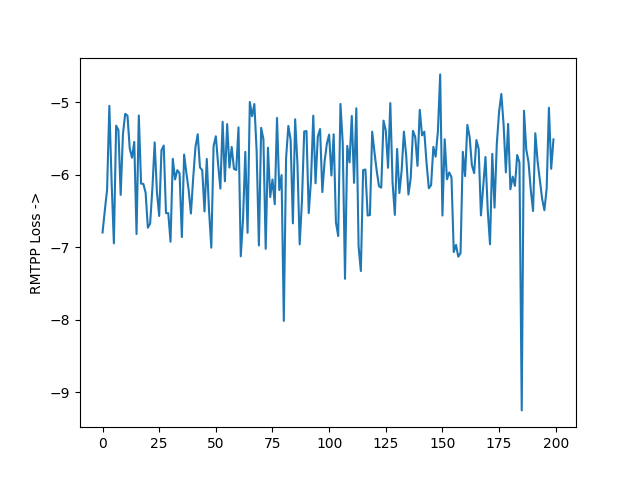
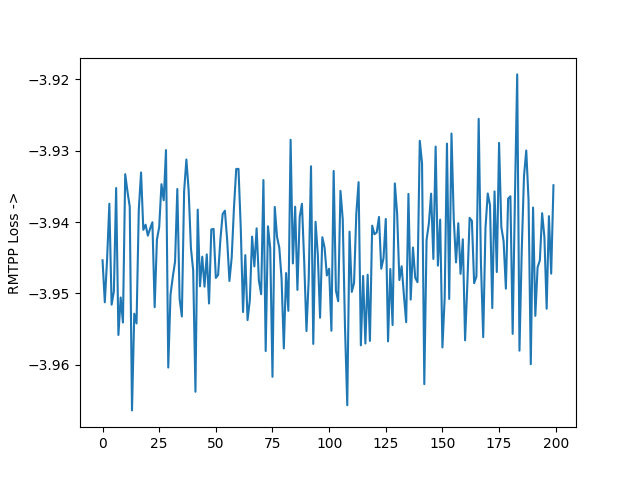
rmtpploss gaussian noise 0 to 0.1

diff --git a/noise.py b/noise.py
@@ -314,4 +314,4 @@ if __name__=="__main__":
     #evaluate_noise_loss()
     #evaluate_noise_loss_gradient()
     #evaluate_noise_loss_ipgradient()
-    evaluate_noise_gaussian()
+    evaluate_noise_gaussian(0,0.1,200)
